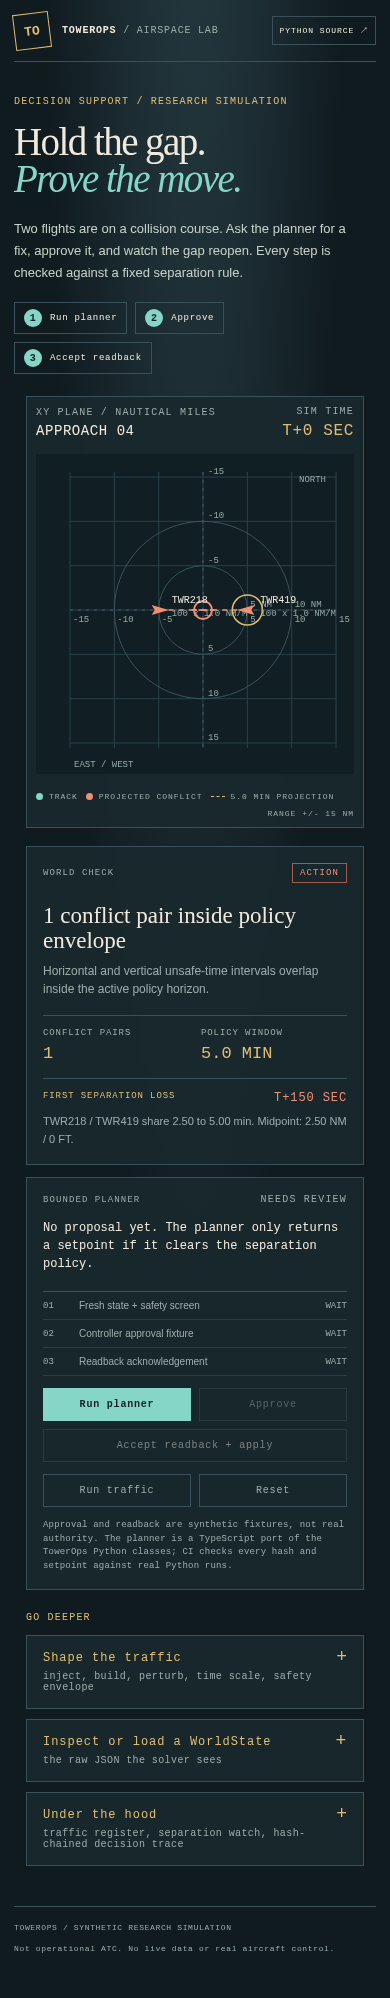
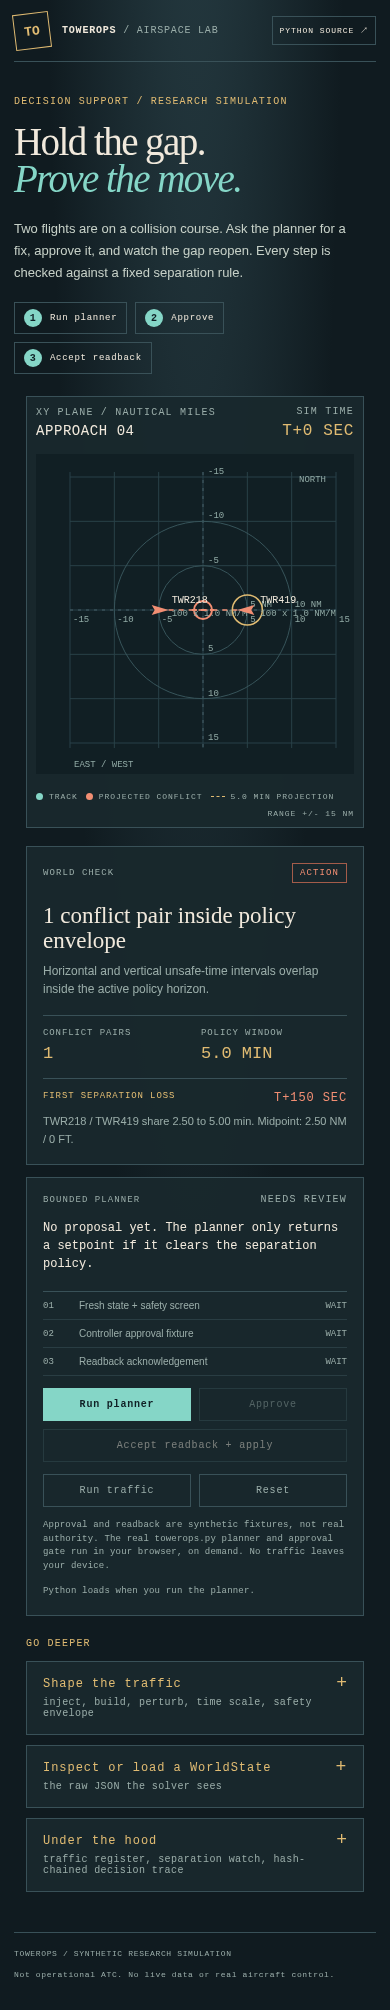
Run real TowerOps Python planner and gate in a lazy browser worker

diff --git a/web/airspace/src/main.ts b/web/airspace/src/main.ts
@@ -2,10 +2,11 @@ import '../style.css';
 import reference from '../tests/python-reference.json';
 import { Aircraft,DEFAULT_POLICY,SafetyPolicy,WorldState,conflictPairs,projected } from './core';
 import { createAircraft,conflictWindows,parseWorldState } from './world-tools';
-import { Advisory,planAdvisory } from './planner';
+import { Advisory } from './planner';
+import { towerPython } from './python';
 import { AuditLog } from './audit';
 import { Ack,Approval,GateRejected } from './gate';
-import { applyAdvisory } from './actuation';
+import { AuditEvent } from './audit';
 import { drawAirspace,viewRange } from './draw';
 type Scenario={name:string;state:WorldState;now:number};
 const fixture=(reference as unknown as {scenarios:Scenario[]}).scenarios[0]!;
@@ -13,7 +14,7 @@ const $=<T extends HTMLElement>(id:string)=>document.getElementById(id) as T;
 const copy=(s:WorldState):WorldState=>JSON.parse(JSON.stringify(s)) as WorldState;
 let policy:SafetyPolicy={...DEFAULT_POLICY};
 let state=copy(fixture.state),now=fixture.now,selected='TWR419',running=false,pending:Advisory|null=null,approval:Approval|null=null,audit=new AuditLog();
-let rate=1,lastFrame=0,trafficSeq=0;
+let rate=1,lastFrame=0,trafficSeq=0,busy=false,pythonAudit='[]';
 type GateState='wait'|'done'|'fail'; let gateScreen:GateState='wait',gateApproval:GateState='wait',gateAck:GateState='wait';
 function setText(id:string,value:string){$(id).textContent=value;}
 function gate(id:string,status:'wait'|'done'|'fail',label:string){const node=$(id);node.className=`gate-step ${status}`;const i=node.querySelector('i');if(i)i.textContent=label;}
@@ -35,7 +36,8 @@ async function render():Promise<void>{
  setText('proposal-state',pending?'PROPOSAL READY':pairs.length?'NEEDS REVIEW':'IDLE');
  if(pending)setText('proposal-output',`${pending.aircraft_id} -> vx ${pending.set_vx_nm_min.toFixed(1)} / vy ${pending.set_vy_nm_min.toFixed(1)} NM/M / climb ${pending.set_climb_ft_min} FT/M. Bound to ${pending.world_hash.slice(0,10)}.`);else setText('proposal-output',proposalMessage);
  gate('gate-screen',gateScreen,gateScreen==='done'?'PASS':gateScreen==='fail'?'FAIL':'WAIT');gate('gate-approval',gateApproval,gateApproval==='done'?'APPROVED':gateApproval==='fail'?'REJECTED':'WAIT');gate('gate-ack',gateAck,gateAck==='done'?'ACCEPTED':gateAck==='fail'?'REJECTED':'WAIT');
- $('run-planner').toggleAttribute('disabled',!pairs.length||!!pending);$('approve').toggleAttribute('disabled',!pending||!!approval);$('readback').toggleAttribute('disabled',!pending||!approval);$('toggle-run').toggleAttribute('disabled',!!pending);
+ $('run-planner').toggleAttribute('disabled',busy||!pairs.length||!!pending);$('approve').toggleAttribute('disabled',!pending||!!approval);$('readback').toggleAttribute('disabled',busy||!pending||!approval);$('toggle-run').toggleAttribute('disabled',busy||!!pending);
+ for(const id of ['reset-world','add-traffic','add-custom-flight','remove-selected','perturb-track','load-world','policy-horizontal','policy-vertical','policy-horizon'])$(id).toggleAttribute('disabled',busy);
  const valid=await audit.verify();setText('audit-status',`${audit.events.length} EVENT${audit.events.length===1?'':'S'} / ${valid?'VALID':'BROKEN'}`);
  const list=$('audit-events');list.replaceChildren();for(const e of audit.events){const li=document.createElement('li');li.textContent=`${String(e.seq).padStart(2,'0')}  ${e.kind}  ${JSON.stringify(e.payload).slice(0,120)}  ${e.event_hash.slice(0,12)}`;list.append(li);}
 }
@@ -45,12 +47,12 @@ function addTraffic(){running=false;clearPending('Traffic added. The planner wil
 function addCustomFlight(){running=false;try{const num=(id:string)=>$<HTMLInputElement>(id).valueAsNumber;const flight=createAircraft({aircraft_id:$<HTMLInputElement>('flight-id').value,x_nm:num('flight-x'),y_nm:num('flight-y'),altitude_ft:num('flight-level')*100,heading_deg:num('flight-bearing'),speed_kt:num('flight-speed'),climb_ft_min:num('flight-climb')});if(state.aircraft.some(a=>a.aircraft_id===flight.aircraft_id))throw new Error(`Callsign ${flight.aircraft_id} already exists.`);state={version:state.version+1,observed_at:now,aircraft:[...state.aircraft,flight]};selected=flight.aircraft_id;clearPending('Visitor-supplied flight added; the solver now evaluates this world.');setText('builder-feedback',`${flight.aircraft_id} injected. Run traffic or ask the planner to solve.`);void render();}catch(err){setText('builder-feedback',`NOT ADDED: ${err instanceof Error?err.message:String(err)}`);}}
 function removeSelected(){running=false;if(state.aircraft.length<=1){setText('builder-feedback','Keep at least one aircraft in the world.');return;}state={version:state.version+1,observed_at:now,aircraft:state.aircraft.filter(a=>a.aircraft_id!==selected)};selected=state.aircraft[0]!.aircraft_id;clearPending('Selected flight removed. Recompute on the remaining live world.');setText('builder-feedback',`${selected} selected; ${state.aircraft.length} aircraft remain.`);void render();}function updatePolicy(){running=false;policy={...policy,min_horizontal_nm:$<HTMLInputElement>('policy-horizontal').valueAsNumber,min_vertical_ft:$<HTMLInputElement>('policy-vertical').valueAsNumber,horizon_min:$<HTMLInputElement>('policy-horizon').valueAsNumber};setText('horizontal-value',`${policy.min_horizontal_nm.toFixed(1)} NM`);setText('vertical-value',`${policy.min_vertical_ft.toLocaleString()} FT`);setText('horizon-value',`${policy.horizon_min.toFixed(1)} MIN`);clearPending('Safety envelope changed. Re-solve the live world.');void render();}
 function exportWorld(){const editor=$<HTMLTextAreaElement>('world-json');editor.value=JSON.stringify(state,null,2);setText('world-json-feedback','Live world exported. Edit tracks, then load your changes.');}
-function loadWorld(){try{const next=parseWorldState(JSON.parse($<HTMLTextAreaElement>('world-json').value));running=false;state=next;now=next.observed_at;selected=next.aircraft[0]!.aircraft_id;pending=null;approval=null;audit=new AuditLog();clearPending('Visitor WorldState loaded. The solver runs on this exact input.');setText('world-json-feedback',`Loaded ${state.aircraft.length} aircraft at version ${state.version}.`);void render();}catch(err){setText('world-json-feedback',`NOT LOADED: ${err instanceof Error?err.message:String(err)}`);}}function perturbTrack(){running=false;clearPending('Track changed. The safety policy is being recomputed from the new vector.');state={version:state.version+1,observed_at:now,aircraft:state.aircraft.map(a=>a.aircraft_id===selected?{...a,vx_nm_min:a.vx_nm_min+0.4,vy_nm_min:a.vy_nm_min+0.3}:a)};void render();}
-async function runPlanner(){running=false;const plan=await planAdvisory(state,now,policy);if(!plan){const has=conflictPairs(state,policy).length>0;clearPending(has?'No admissible maneuver in the bounded candidate set. No state changed.':'No projected conflict. No advisory needed.');if(has)gateScreen='fail';}else{pending=plan;approval=null;proposalMessage='The Python planner found a safe candidate. Review the exact world-bound setpoint, then approve and acknowledge it.';gateScreen='done';gateApproval='wait';gateAck='wait';}await render();}
+function loadWorld(){try{const next=parseWorldState(JSON.parse($<HTMLTextAreaElement>('world-json').value));running=false;state=next;now=next.observed_at;selected=next.aircraft[0]!.aircraft_id;pending=null;approval=null;audit=new AuditLog();pythonAudit='[]';clearPending('Visitor WorldState loaded. The solver runs on this exact input.');setText('world-json-feedback',`Loaded ${state.aircraft.length} aircraft at version ${state.version}.`);void render();}catch(err){setText('world-json-feedback',`NOT LOADED: ${err instanceof Error?err.message:String(err)}`);}}function perturbTrack(){running=false;clearPending('Track changed. The safety policy is being recomputed from the new vector.');state={version:state.version+1,observed_at:now,aircraft:state.aircraft.map(a=>a.aircraft_id===selected?{...a,vx_nm_min:a.vx_nm_min+0.4,vy_nm_min:a.vy_nm_min+0.3}:a)};void render();}
+async function runPlanner(){running=false;busy=true;setText('python-status','Loading real TowerOps Python… (first run only)');await render();try{const result=await towerPython({op:'plan',state,now,policy});const plan:Advisory|null=result.advisory;setText('python-status','Live CPython · towerops.py · AdvisoryPlanner');if(!plan){const has=conflictPairs(state,policy).length>0;clearPending(has?'No admissible maneuver in the bounded candidate set. No state changed.':'No projected conflict. No advisory needed.');if(has)gateScreen='fail';}else{pending=plan;approval=null;proposalMessage='The Python planner found a safe candidate. Review the exact world-bound setpoint, then approve and acknowledge it.';gateScreen='done';gateApproval='wait';gateAck='wait';}}catch(err){clearPending('Python unavailable. No substitute planner or state change.');setText('python-status',String(err));}finally{busy=false;await render();}}
 function approvePlan(){if(!pending)return;approval={advisory_hash:pending.advisory_hash,decision:'approve',approved_at:now+0.2,approver:'synthetic-controller'};gateApproval='done';gateAck='wait';proposalMessage='Approval is bound to this advisory hash. Readback is still required before simulated actuation.';void render();}
 
-async function acceptReadback(){if(!pending||!approval)return;const a=pending,applyNow=now+0.5,ack:Ack={advisory_hash:a.advisory_hash,status:'accepted',acknowledged_at:now+0.4};try{state=await applyAdvisory(state,a,approval,ack,applyNow,audit,policy);now=applyNow;pending=null;approval=null;gateScreen='done';gateApproval='done';gateAck='done';const n=conflictPairs(state,policy).length;proposalMessage=n?`Actuation is simulated; ${n} conflict pair(s) remain. Run another bounded pass.`:'Simulated setpoint applied. No projected conflict remains in the policy window.';}catch(err){proposalMessage=`GATE REJECTED: ${err instanceof GateRejected?err.reason:String(err)}. No state transition was applied.`;pending=null;approval=null;gateScreen='fail';gateAck='fail';}await render();}
-function resetWorld(){running=false;policy={...DEFAULT_POLICY};$<HTMLInputElement>('policy-horizontal').value='5';$<HTMLInputElement>('policy-vertical').value='1000';$<HTMLInputElement>('policy-horizon').value='5';state=copy(fixture.state);now=fixture.now;selected='TWR419';trafficSeq=0;pending=null;approval=null;audit=new AuditLog();gateScreen='wait';gateApproval='wait';gateAck='wait';proposalMessage='Reset to the crossing scenario from demo.py. Run the bounded planner to propose a safe vector.';$<HTMLInputElement>('speed-range').value='1';$('toggle-run').textContent='Run traffic';void render();}
+async function acceptReadback(){if(busy||!pending||!approval)return;const a=pending,applyNow=now+0.5,ack:Ack={advisory_hash:a.advisory_hash,status:'accepted',acknowledged_at:now+0.4};try{busy=true;await render();const result=await towerPython({op:'apply',state,advisory:a,approval,ack,now:applyNow,policy,audit_json:pythonAudit});pythonAudit=result.audit_json;audit.events=result.events as AuditEvent[];if(result.error)throw new GateRejected(result.error);if(!result.valid)throw new Error('Python audit chain verification failed');state=result.state;setText('python-status','Live CPython · ControlRoom.apply · audit verified');now=applyNow;pending=null;approval=null;gateScreen='done';gateApproval='done';gateAck='done';const n=conflictPairs(state,policy).length;proposalMessage=n?`Actuation is simulated; ${n} conflict pair(s) remain. Run another bounded pass.`:'Simulated setpoint applied. No projected conflict remains in the policy window.';}catch(err){proposalMessage=`GATE REJECTED: ${err instanceof GateRejected?err.reason:String(err)}. No state transition was applied.`;pending=null;approval=null;gateScreen='fail';gateAck='fail';}finally{busy=false;}await render();}
+function resetWorld(){running=false;policy={...DEFAULT_POLICY};$<HTMLInputElement>('policy-horizontal').value='5';$<HTMLInputElement>('policy-vertical').value='1000';$<HTMLInputElement>('policy-horizon').value='5';state=copy(fixture.state);now=fixture.now;selected='TWR419';trafficSeq=0;pending=null;approval=null;audit=new AuditLog();pythonAudit='[]';gateScreen='wait';gateApproval='wait';gateAck='wait';proposalMessage='Reset to the crossing scenario from demo.py. Run the bounded planner to propose a safe vector.';$<HTMLInputElement>('speed-range').value='1';$('toggle-run').textContent='Run traffic';void render();}
 function frame(t:number){if(!lastFrame)lastFrame=t;const elapsed=Math.min(0.08,Math.max(0,(t-lastFrame)/1000));lastFrame=t;if(running){const minutes=elapsed*rate;now+=minutes*60;state={version:state.version+1,observed_at:now,aircraft:state.aircraft.map(a=>projected(a,minutes))};drawAirspace($<HTMLCanvasElement>('airspace'),state,selected,policy);setText('sim-clock',`T+${Math.floor(now-fixture.now)} SEC`);if(t%250<20)void render();}requestAnimationFrame(frame);}
 $('toggle-run').addEventListener('click',()=>{running=!running;lastFrame=0;$('toggle-run').textContent=running?'Pause traffic':'Run traffic';if(running)announce('Traffic is moving from its displayed velocity vectors.');else announce('Traffic paused.');});
 $('reset-world').addEventListener('click',resetWorld);$('add-traffic').addEventListener('click',addTraffic);$('perturb-track').addEventListener('click',perturbTrack);$('run-planner').addEventListener('click',()=>void runPlanner());$('approve').addEventListener('click',approvePlan);$('readback').addEventListener('click',()=>void acceptReadback());

diff --git a/web/airspace/index.html b/web/airspace/index.html
@@ -5,7 +5,7 @@
 <main id="top"><section class="intro"><div><p class="eyebrow">DECISION SUPPORT / RESEARCH SIMULATION</p><h1>Hold the gap.<br><em>Prove the move.</em></h1><p class="lede">Two flights are on a collision course. Ask the planner for a fix, approve it, and watch the gap reopen. Every step is checked against a fixed separation rule.</p><ol class="quick-steps" aria-label="Three steps"><li><b>1</b>Run planner</li><li><b>2</b>Approve</li><li><b>3</b>Accept readback</li></ol></div><div class="intro-stamp"><span>01</span><span>APPROACH<br>SECTOR</span><b>5 MIN</b></div></section>
 <section class="lab-grid" aria-label="Interactive airspace lab"><div class="radar-panel"><div class="panel-head"><div><span class="micro">XY PLANE / NAUTICAL MILES</span><strong>APPROACH 04</strong></div><div class="clock-readout"><span class="micro">SIM TIME</span><strong id="sim-clock">00:00</strong></div></div><canvas id="airspace" aria-label="Synthetic aircraft positions, tracks, and projected conflict points"></canvas><div class="radar-legend"><span><i class="legend-dot safe"></i>TRACK</span><span><i class="legend-dot risk"></i>PROJECTED CONFLICT</span><span><i class="legend-dash"></i><span id="projection-label">5-MIN PROJECTION</span></span><span id="range-label">RANGE 24 NM</span></div></div>
 <aside class="control-rail"><section class="readout-card"><div class="card-kicker"><span>WORLD CHECK</span><span id="world-badge" class="badge">READING</span></div><h2 id="world-title">Checking tracks...</h2><p id="world-note">The policy looks for simultaneous horizontal and vertical overlap.</p><div class="readout-metrics"><div><span>CONFLICT PAIRS</span><b id="pair-count">0</b></div><div><span>POLICY WINDOW</span><b id="policy-window">5 MIN</b></div></div><div class="conflict-brief"><div><span>FIRST SEPARATION LOSS</span><b id="conflict-time">—</b></div><p id="conflict-detail">Move traffic or change the envelope to inspect the first predicted encounter.</p></div></section>
-<section class="proposal-card"><div class="card-kicker"><span>BOUNDED PLANNER</span><span id="proposal-state" class="micro">IDLE</span></div><div id="proposal-output" class="proposal-output">No proposal yet. The planner only returns a setpoint if it clears the separation policy.</div><div class="gate-list"><div id="gate-screen" class="gate-step"><b>01</b><span>Fresh state + safety screen</span><i>WAIT</i></div><div id="gate-approval" class="gate-step"><b>02</b><span>Controller approval fixture</span><i>WAIT</i></div><div id="gate-ack" class="gate-step"><b>03</b><span>Readback acknowledgement</span><i>WAIT</i></div></div><div class="button-row"><button id="run-planner" class="button button-primary">Run planner</button><button id="approve" class="button button-quiet" disabled>Approve</button></div><button id="readback" class="button button-wide" disabled>Accept readback + apply</button><div class="button-row"><button id="toggle-run" class="button button-quiet">Run traffic</button><button id="reset-world" class="button button-quiet">Reset</button></div><p class="fine-print">Approval and readback are synthetic fixtures, not real authority. The planner is a TypeScript port of the TowerOps Python classes; CI checks every hash and setpoint against real Python runs.</p></section></aside></section>
+<section class="proposal-card"><div class="card-kicker"><span>BOUNDED PLANNER</span><span id="proposal-state" class="micro">IDLE</span></div><div id="proposal-output" class="proposal-output">No proposal yet. The planner only returns a setpoint if it clears the separation policy.</div><div class="gate-list"><div id="gate-screen" class="gate-step"><b>01</b><span>Fresh state + safety screen</span><i>WAIT</i></div><div id="gate-approval" class="gate-step"><b>02</b><span>Controller approval fixture</span><i>WAIT</i></div><div id="gate-ack" class="gate-step"><b>03</b><span>Readback acknowledgement</span><i>WAIT</i></div></div><div class="button-row"><button id="run-planner" class="button button-primary">Run planner</button><button id="approve" class="button button-quiet" disabled>Approve</button></div><button id="readback" class="button button-wide" disabled>Accept readback + apply</button><div class="button-row"><button id="toggle-run" class="button button-quiet">Run traffic</button><button id="reset-world" class="button button-quiet">Reset</button></div><p class="fine-print">Approval and readback are synthetic fixtures, not real authority. The real towerops.py planner and approval gate run in your browser, on demand. No traffic leaves your device.</p><p id="python-status" class="fine-print" role="status">Python loads when you run the planner.</p></section></aside></section>
 <section class="depth-stack" aria-label="Go deeper"><p class="eyebrow depth-label">GO DEEPER</p><details class="depth control-card"><summary><span>Shape the traffic</span><small>inject, build, perturb, time scale, safety envelope</small></summary><button id="add-traffic" class="button button-wide">+ Inject crossing traffic</button><div class="flight-builder"><div class="builder-title"><span>BUILD A FLIGHT</span><span>YOUR INPUT → LIVE WORLD</span></div><div class="builder-grid"><label>CALLSIGN<input id="flight-id" value="TWR820" maxlength="10"></label><label>EAST · NM<input id="flight-x" type="number" min="-12" max="12" step="0.5" value="0"></label><label>NORTH · NM<input id="flight-y" type="number" min="-12" max="12" step="0.5" value="-8"></label><label>FL<input id="flight-level" type="number" min="10" max="450" step="10" value="100"></label><label>BEARING °<input id="flight-bearing" type="number" min="0" max="359" step="1" value="0"></label><label>SPEED · KT<input id="flight-speed" type="number" min="0" max="360" step="5" value="120"></label><label>CLIMB · FT/MIN<input id="flight-climb" type="number" min="-3000" max="3000" step="250" value="0"></label></div><div class="button-row"><button id="add-custom-flight" class="button button-primary">Inject this track</button><button id="remove-selected" class="button button-quiet">Remove selected</button></div><p id="builder-feedback" class="fine-print" role="status">0° = north; 90° = east. Change any value and rerun the solver.</p></div><button id="perturb-track" class="button button-wide">Perturb selected track</button><label class="speed-control" for="speed-range"><span>TIME SCALE</span><output id="speed-value">1.0x</output><input id="speed-range" type="range" min="0.5" max="3" step="0.5" value="1"></label><details class="policy-editor"><summary>Adjust the safety envelope</summary><label>Horizontal · <output id="horizontal-value">5.0 NM</output><input id="policy-horizontal" type="range" min="3" max="10" step="0.5" value="5"></label><label>Vertical · <output id="vertical-value">1,000 FT</output><input id="policy-vertical" type="range" min="500" max="2500" step="100" value="1000"></label><label>Look-ahead · <output id="horizon-value">5.0 MIN</output><input id="policy-horizon" type="range" min="2" max="10" step="0.5" value="5"></label><p class="fine-print">These values feed the planner and safety gate.</p></details><p class="fine-print">Every marker advances from its velocity vector. Add, edit or perturb traffic; the solver recomputes the live world.</p></details>
 <details class="depth state-workbench"><summary><span>Inspect or load a WorldState</span><small>the raw JSON the solver sees</small></summary><p>Paste a TowerOps state to run the same conflict detector and bounded planner on your own traffic. Export any live state to keep iterating.</p><textarea id="world-json" rows="10" spellcheck="false" aria-label="Editable TowerOps WorldState JSON"></textarea><div class="button-row"><button id="export-world" class="button button-quiet">Export live world</button><button id="load-world" class="button button-primary">Load into simulation</button></div><p id="world-json-feedback" role="status" class="fine-print">One to 60 aircraft; finite numeric fields and unique callsigns required.</p></details><details class="depth telemetry-wrap"><summary><span>Under the hood</span><small>traffic register, separation watch, hash-chained decision trace</small></summary><div class="telemetry-grid"><article class="data-panel"><div class="panel-head"><div><span class="micro">LIVE REGISTER</span><strong>Traffic</strong></div><span id="flight-count" class="count-chip">0 FLIGHTS</span></div><div id="flight-list" class="flight-list"></div></article>
 <article class="data-panel"><div class="panel-head"><div><span class="micro">POLICY CHECK</span><strong>Separation watch</strong></div><span class="micro">CONTINUOUS MODEL</span></div><div id="conflict-list" class="conflict-list"></div></article>

diff --git a/web/airspace/src/python-worker.ts b/web/airspace/src/python-worker.ts
@@ -1,0 +1,46 @@
+// Lazy, off-main-thread CPython. All solver/gate decisions come from towerops.py.
+let runtime:Promise<any>|null=null;
+async function python(base:string){
+ if(!runtime)runtime=(async()=>{
+  const url=base+'python/pyodide.mjs';
+  const {loadPyodide}=await import(/* @vite-ignore */ url);
+  const py=await loadPyodide({indexURL:base+'python/'});
+  const response=await fetch(base+'python/towerops.py');
+  if(!response.ok)throw new Error('TowerOps Python source could not load');
+  py.FS.writeFile('towerops.py',await response.text());
+  await py.runPythonAsync(`
+import json
+from dataclasses import asdict
+from towerops import Aircraft, WorldState, SafetyPolicy, AdvisoryPlanner, Advisory, Approval, Ack, ControlRoom, GateRejected
+
+def browser_request(raw):
+    q = json.loads(raw)
+    s = q['state']
+    state = WorldState(s['version'], float(s['observed_at']), tuple(Aircraft(**{k: (v if k == 'aircraft_id' else float(v)) for k,v in a.items()}) for a in s['aircraft']))
+    policy = SafetyPolicy(**{k: float(v) for k,v in q['policy'].items()})
+    if q['op'] == 'plan':
+        plans = AdvisoryPlanner(policy).plan(state, float(q['now']))
+        a = plans[0] if plans else None
+        return json.dumps({'advisory': dict(asdict(a), advisory_hash=a.advisory_hash) if a else None})
+    body = dict(q['advisory'])
+    body.pop('advisory_hash', None)
+    a = Advisory(**{k: (v if k in ('aircraft_id', 'world_hash', 'rationale') else float(v)) for k,v in body.items()})
+    room = ControlRoom(policy)
+    room.audit.events = json.loads(q.get('audit_json', '[]'))
+    approval = Approval(**q['approval']) if q.get('approval') else None
+    ack = Ack(**q['ack']) if q.get('ack') else None
+    try:
+        after = room.apply(state, a, approval, ack, float(q['now']))
+        return json.dumps({'state': after.to_dict(), 'events': room.audit.events, 'valid': room.audit.verify(room.audit.events), 'audit_json': json.dumps(room.audit.events)})
+    except GateRejected as e:
+        return json.dumps({'error': e.reason, 'events': room.audit.events, 'audit_json': json.dumps(room.audit.events)})
+`);
+  return py;
+ })().catch(e=>{runtime=null;throw e;});
+ return runtime;
+}
+self.onmessage=async(event)=>{
+ const {id,base,request}=event.data;
+ try{const py=await python(base);py.globals.set('browser_payload',JSON.stringify(request));const result=JSON.parse(await py.runPythonAsync('browser_request(browser_payload)'));self.postMessage({id,result});}
+ catch(e){self.postMessage({id,error:String(e)});}
+};

diff --git a/web/airspace/src/python.ts b/web/airspace/src/python.ts
@@ -1,0 +1,7 @@
+let worker:Worker|null=null,seq=0;
+const calls=new Map<number,{resolve:(value:any)=>void;reject:(error:Error)=>void;timer:ReturnType<typeof setTimeout>}>();
+export function towerPython(request:unknown):Promise<any>{
+ if(!worker){worker=new Worker(new URL('./python-worker.ts',import.meta.url),{type:'module'});worker.onmessage=({data})=>{const call=calls.get(data.id);if(!call)return;clearTimeout(call.timer);calls.delete(data.id);if(data.error)call.reject(new Error(data.error));else call.resolve(data.result);};worker.onerror=()=>{for(const call of calls.values()){clearTimeout(call.timer);call.reject(new Error('Python worker could not start'));}calls.clear();worker?.terminate();worker=null;};}
+ const id=++seq;
+ return new Promise((resolve,reject)=>{const timer=setTimeout(()=>{calls.delete(id);reject(new Error('Python load timed out. Retry when your connection is ready.'));},90000);calls.set(id,{resolve,reject,timer});worker!.postMessage({id,base:new URL('./',document.baseURI).href,request});});
+}

diff --git a/tools/test_browser_python.py b/tools/test_browser_python.py
@@ -1,0 +1,45 @@
+"""Exercise deployed worker against the actual native Python oracle."""
+import json
+from http.server import ThreadingHTTPServer, SimpleHTTPRequestHandler
+from threading import Thread
+from pathlib import Path
+from playwright.sync_api import sync_playwright
+from generate_airspace_reference import CASES, result
+from towerops import SafetyPolicy
+ROOT=Path(__file__).resolve().parents[1]
+class Quiet(SimpleHTTPRequestHandler):
+ def __init__(self,*a,**k):super().__init__(*a,directory=str(ROOT/'web/airspace/dist'),**k)
+ def log_message(self,*a):pass
+server=ThreadingHTTPServer(('127.0.0.1',0),Quiet);Thread(target=server.serve_forever,daemon=True).start()
+url=f'http://127.0.0.1:{server.server_address[1]}/'
+try:
+ with sync_playwright() as pw:
+  browser=pw.chromium.launch(headless=True);page=browser.new_page();page.goto(url)
+  worker=next((ROOT/'web/airspace/dist/assets').glob('python-worker-*.js')).name
+  page.evaluate("name=>{window.pyWorker=new Worker('./assets/'+name,{type:'module'});window.pyCall=request=>new Promise((resolve,reject)=>{pyWorker.onmessage=e=>e.data.error?reject(Error(e.data.error)):resolve(e.data.result);pyWorker.postMessage({id:1,base:location.href,request});});}",worker)
+  policy=SafetyPolicy();count=0
+  for name,state in CASES:
+   expected=result(name,state,policy);now=expected['now'];s=expected['state']
+   q={'op':'plan','state':s,'policy':__import__('dataclasses').asdict(policy),'now':now}
+   actual=page.evaluate('q=>pyCall(q)',q)
+   a=actual['advisory'];wanted=expected['advisory']
+   assert a==dict(wanted,advisory_hash=expected['advisory_hash']) if wanted else a is None
+   if a:
+    approval={'advisory_hash':a['advisory_hash'],'decision':'approve','approved_at':now+0.2,'approver':'synthetic-controller'}
+    ack={'advisory_hash':a['advisory_hash'],'status':'accepted','acknowledged_at':now+0.4}
+    apply={**q,'op':'apply','advisory':a,'approval':approval,'ack':ack,'now':now+0.5,'audit_json':'[]'}
+    after=page.evaluate('q=>pyCall(q)',apply)
+    assert after['state']==expected['after_state'] and after['events']==expected['audit_events'] and after['valid']
+    repeated=page.evaluate('q=>pyCall(q)',{**apply,'audit_json':after['audit_json']})
+    assert repeated['valid'] and len(repeated['events'])==8
+    denied=page.evaluate('q=>pyCall(q)',{**apply,'ack':None})
+    assert denied['error']=='ack_missing'
+    denied=page.evaluate('q=>pyCall(q)',{**apply,'approval':None})
+    assert denied['error']=='human_approval_required'
+   count+=1
+  # Source failure must not use a TypeScript/mock fallback.
+  failed=browser.new_page();failed.route('**/python/towerops.py',lambda route:route.abort());failed.goto(url);failed.locator('#run-planner').click();failed.wait_for_function("document.querySelector('#proposal-output').textContent.includes('Python unavailable')",timeout=90000)
+  assert failed.locator('#approve').is_disabled() and failed.locator('#pair-count').text_content()=='1'
+  print(json.dumps({'native_python_cases':count,'planner_gate_audit_parity':True,'missing_approval_and_ack_rejected':True,'source_load_failure_closed':True}))
+  browser.close()
+finally:server.shutdown();server.server_close()

diff --git a/tools/capture_airspace.py b/tools/capture_airspace.py
@@ -23,7 +23,7 @@ def main():
    browser=pw.chromium.launch(**kw);ctx=browser.new_context(viewport={'width':1440,'height':1000})
    page=ctx.new_page();page.on('pageerror',lambda e:errors.append(str(e)));page.on('console',lambda m:errors.append(m.text) if m.type=='error' else None);page.on('response',lambda r:bad.append((r.status,r.url)) if r.status>=400 else None)
    page.goto(url,wait_until='networkidle');assert page.locator('#pair-count').inner_text()=='1'
-   page.locator('#run-planner').click();assert 'TWR419' in page.locator('#proposal-output').inner_text()
+   page.locator('#run-planner').click();page.wait_for_function("document.querySelector('#proposal-state').textContent==='PROPOSAL READY'",timeout=90000);assert 'TWR419' in page.locator('#proposal-output').inner_text()
    page.locator('#approve').click();page.locator('#readback').click();page.wait_for_function("document.querySelector('#world-title').textContent.includes('No projected conflict')")
    assert 'VALID' in page.locator('#audit-status').text_content();assert [page.locator(f'#{x} i').inner_text() for x in ('gate-screen','gate-approval','gate-ack')]==['PASS','APPROVED','ACCEPTED'];desktop=page.locator('#world-title').inner_text();page.screenshot(path=str(out/'airspace-desktop.png'),full_page=True)
    page.evaluate("document.querySelectorAll('details.depth').forEach(d=>d.open=true)");page.locator('#flight-id').fill('VISIT1');page.locator('#flight-x').fill('11');page.locator('#flight-y').fill('9');page.locator('#flight-level').fill('110');page.locator('#flight-bearing').fill('270');page.locator('#flight-speed').fill('150');page.locator('#add-custom-flight').click()
